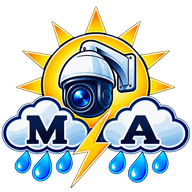
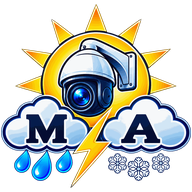
fix(assets): logotipo nuevo sin caché y nieve en Cámaras y Estaciones (#55)
* fix(cabecera): forzar el logotipo nuevo saltando la caché del navegador

Añade ?v=20261101-nieve al logotipo de la cabecera, a los iconos y al
favicon, y sube la versión de cabecera.html y cabecera.js para que los
navegadores pidan de nuevo el fragmento con la ruta nueva.

Claude-Session: https://claude.ai/code/session_01BdTtrC9zbU6oo9yPXz8vnb

* feat(assets): nieve en la nube de la A también en Cámaras y Estaciones

Mismo cambio que el logotipo principal en logo-camaras, logo-estaciones
y sus versiones de 128 y 192 px. Sus referencias (visor de vídeo, YouTube,
timelapses y ficha de estación) llevan ?v=20261101-nieve para que el
navegador no muestre la copia antigua.

Claude-Session: https://claude.ai/code/session_01BdTtrC9zbU6oo9yPXz8vnb

---------

Changed region(s): [[0.0, 0.0312, 1.0, 0.9688], [0.3438, 0.9688, 0.375, 1.0]]

diff --git a/pages/administracion.html b/pages/administracion.html
@@ -7,9 +7,9 @@
 <meta name="description" content="Administración privada de MeteoArchidona.">
 <title>Administración · MeteoArchidona</title>
 
-<link rel="icon" href="/assets/icono-192.png" type="image/png" sizes="192x192">
-<link rel="icon" href="/favicon.ico" sizes="48x48">
-<link rel="apple-touch-icon" href="/assets/apple-touch-icon.png">
+<link rel="icon" href="/assets/icono-192.png?v=20261101-nieve" type="image/png" sizes="192x192">
+<link rel="icon" href="/favicon.ico?v=20261101-nieve" sizes="48x48">
+<link rel="apple-touch-icon" href="/assets/apple-touch-icon.png?v=20261101-nieve">
 <meta name="robots" content="noindex, nofollow">
 
 <link rel="stylesheet" href="../css/fuentes.css?v=20260913-lluvia2">
@@ -20,7 +20,7 @@
 <link rel="stylesheet" href="../css/administracion.css?v=20261027-estadisticas1">
 <link rel="stylesheet" href="../css/visor-estadisticas.css?v=20261027-visor1">
 
-<script src="../js/cabecera.js?v=20261028-estadisticas1" defer></script>
+<script src="../js/cabecera.js?v=20261101-nieve" defer></script>
 <script src="../js/lluvia.js?v=20260913-lluvia3" defer></script>
 <script src="../js/api.js?v=20261003-vps1" defer></script>
 <script

diff --git a/pages/en-vivo.html b/pages/en-vivo.html
@@ -13,9 +13,9 @@
     content="Cámaras meteorológicas en directo de Los Llanos y Sierra Nevada para observar el cielo, la visibilidad, la nieve y el entorno en tiempo real."
 >
 
-<link rel="icon" href="/assets/icono-192.png" type="image/png" sizes="192x192">
-<link rel="icon" href="/favicon.ico" sizes="48x48">
-<link rel="apple-touch-icon" href="/assets/apple-touch-icon.png">
+<link rel="icon" href="/assets/icono-192.png?v=20261101-nieve" type="image/png" sizes="192x192">
+<link rel="icon" href="/favicon.ico?v=20261101-nieve" sizes="48x48">
+<link rel="apple-touch-icon" href="/assets/apple-touch-icon.png?v=20261101-nieve">
 
 <link rel="canonical" href="https://meteoarchidona.com/en-vivo">
 
@@ -48,7 +48,7 @@
 >
 
 
-<script src="../js/cabecera.js?v=20261028-estadisticas1" defer></script>
+<script src="../js/cabecera.js?v=20261101-nieve" defer></script>
 <script src="../js/auditoria.js?v=20261025-auditoria2" defer></script>
 <script src="../js/lluvia.js?v=20260913-lluvia3" defer></script>
 

diff --git a/pages/estadisticas.html b/pages/estadisticas.html
@@ -19,9 +19,9 @@
     Estadísticas · MeteoArchidona
 </title>
 
-<link rel="icon" href="/assets/icono-192.png" type="image/png" sizes="192x192">
-<link rel="icon" href="/favicon.ico" sizes="48x48">
-<link rel="apple-touch-icon" href="/assets/apple-touch-icon.png">
+<link rel="icon" href="/assets/icono-192.png?v=20261101-nieve" type="image/png" sizes="192x192">
+<link rel="icon" href="/favicon.ico?v=20261101-nieve" sizes="48x48">
+<link rel="apple-touch-icon" href="/assets/apple-touch-icon.png?v=20261101-nieve">
 <link rel="canonical" href="https://meteoarchidona.com/estadisticas">
 <meta property="og:type" content="website">
 <meta property="og:site_name" content="MeteoArchidona">
@@ -72,7 +72,7 @@
 
 
 <script
-    src="../js/cabecera.js?v=20261028-estadisticas1"
+    src="../js/cabecera.js?v=20261101-nieve"
     defer
 ></script>
 <script src="../js/auditoria.js?v=20261025-auditoria2" defer></script>

diff --git a/pages/informacion.html b/pages/informacion.html
@@ -19,9 +19,9 @@
     Información · MeteoArchidona
 </title>
 
-<link rel="icon" href="/assets/icono-192.png" type="image/png" sizes="192x192">
-<link rel="icon" href="/favicon.ico" sizes="48x48">
-<link rel="apple-touch-icon" href="/assets/apple-touch-icon.png">
+<link rel="icon" href="/assets/icono-192.png?v=20261101-nieve" type="image/png" sizes="192x192">
+<link rel="icon" href="/favicon.ico?v=20261101-nieve" sizes="48x48">
+<link rel="apple-touch-icon" href="/assets/apple-touch-icon.png?v=20261101-nieve">
 <link rel="canonical" href="https://meteoarchidona.com/informacion">
 <meta property="og:type" content="website">
 <meta property="og:site_name" content="MeteoArchidona">
@@ -67,7 +67,7 @@
 
 
 <script
-    src="../js/cabecera.js?v=20261028-estadisticas1"
+    src="../js/cabecera.js?v=20261101-nieve"
     defer
 ></script>
 <script src="../js/auditoria.js?v=20261025-auditoria2" defer></script>

diff --git a/pages/prediccion.html b/pages/prediccion.html
@@ -20,9 +20,9 @@
 </title>
 
 
-<link rel="icon" href="/assets/icono-192.png" type="image/png" sizes="192x192">
-<link rel="icon" href="/favicon.ico" sizes="48x48">
-<link rel="apple-touch-icon" href="/assets/apple-touch-icon.png">
+<link rel="icon" href="/assets/icono-192.png?v=20261101-nieve" type="image/png" sizes="192x192">
+<link rel="icon" href="/favicon.ico?v=20261101-nieve" sizes="48x48">
+<link rel="apple-touch-icon" href="/assets/apple-touch-icon.png?v=20261101-nieve">
 <link rel="canonical" href="https://meteoarchidona.com/prediccion">
 <meta property="og:type" content="website">
 <meta property="og:site_name" content="MeteoArchidona">
@@ -74,7 +74,7 @@
 
 
 <script
-    src="../js/cabecera.js?v=20261028-estadisticas1"
+    src="../js/cabecera.js?v=20261101-nieve"
     defer
 ></script>
 <script src="../js/auditoria.js?v=20261025-auditoria2" defer></script>

diff --git a/pages/actualidad.html b/pages/actualidad.html
@@ -20,9 +20,9 @@
 </title>
 
 
-<link rel="icon" href="/assets/icono-192.png" type="image/png" sizes="192x192">
-<link rel="icon" href="/favicon.ico" sizes="48x48">
-<link rel="apple-touch-icon" href="/assets/apple-touch-icon.png">
+<link rel="icon" href="/assets/icono-192.png?v=20261101-nieve" type="image/png" sizes="192x192">
+<link rel="icon" href="/favicon.ico?v=20261101-nieve" sizes="48x48">
+<link rel="apple-touch-icon" href="/assets/apple-touch-icon.png?v=20261101-nieve">
 <link rel="canonical" href="https://meteoarchidona.com/">
 <meta property="og:type" content="website">
 <meta property="og:site_name" content="MeteoArchidona">
@@ -95,7 +95,7 @@
 
 
 <script
-    src="../js/cabecera.js?v=20261028-estadisticas1"
+    src="../js/cabecera.js?v=20261101-nieve"
     defer
 ></script>
 <script src="../js/auditoria.js?v=20261025-auditoria2" defer></script>

diff --git a/pages/observaciones.html b/pages/observaciones.html
@@ -21,20 +21,20 @@ MeteoArchidona · Seguimiento meteorológico
 
 <link
 rel="icon"
-href="/assets/icono-192.png"
+href="/assets/icono-192.png?v=20261101-nieve"
 type="image/png"
 sizes="192x192"
 >
 
 <link
 rel="icon"
-href="/favicon.ico"
+href="/favicon.ico?v=20261101-nieve"
 sizes="48x48"
 >
 
 <link
 rel="apple-touch-icon"
-href="/assets/apple-touch-icon.png"
+href="/assets/apple-touch-icon.png?v=20261101-nieve"
 >
 
 <link rel="canonical" href="https://meteoarchidona.com/observaciones">
@@ -114,7 +114,7 @@ href="../css/observaciones.css?v=20261006-vistazo2"
 
 
 <script
-src="../js/cabecera.js?v=20261028-estadisticas1"
+src="../js/cabecera.js?v=20261101-nieve"
 defer
 ></script>
 <script src="../js/auditoria.js?v=20261025-auditoria2" defer></script>

diff --git a/visores/video.html b/visores/video.html
@@ -38,7 +38,7 @@ href="../css/paleta.css?v=20260913-pruebas1"
 
 <link
 rel="stylesheet"
-href="../css/visor-video.css?v=20261031-directo-instrumentos1"
+href="../css/visor-video.css?v=20261101-nieve"
 >
 
 
@@ -174,7 +174,7 @@ aria-hidden="true"
 >
 
 <img
-src="/assets/icono-camaras-192.png"
+src="/assets/icono-camaras-192.png?v=20261101-nieve"
 alt=""
 >
 

diff --git a/js/actualidad/estaciones.js b/js/actualidad/estaciones.js
@@ -61,7 +61,7 @@ import {
     establecerModoFicha,
     montarVisorFicha,
     obtenerPlantillaFichaEstacion as obtenerPlantillaComponente
-} from "../ficha-estacion.js?v=20261025-viento1";
+} from "../ficha-estacion.js?v=20261101-nieve";
 
 
 /* ==========================================================

diff --git a/css/visor-video.css b/css/visor-video.css
@@ -132,7 +132,7 @@ body {
     background-color: #050b12;
 
     background-image:
-        url("/assets/logo-camaras.png"),
+        url("/assets/logo-camaras.png?v=20261101-nieve"),
         radial-gradient(
             circle at 50% 45%,
             rgba(

diff --git a/visores/youtube.html b/visores/youtube.html
@@ -53,7 +53,7 @@
 
             <img
                 class="visor-youtube-logo"
-                src="/assets/icono-camaras-192.png"
+                src="/assets/icono-camaras-192.png?v=20261101-nieve"
                 alt=""
             >
 

diff --git a/js/cabecera.js b/js/cabecera.js
@@ -30,7 +30,7 @@
 
 
 const RUTA_CABECERA =
-    "/componentes/cabecera.html?v=20261028-estadisticas1";
+    "/componentes/cabecera.html?v=20261101-nieve";
 
 
 /* ==========================================================
